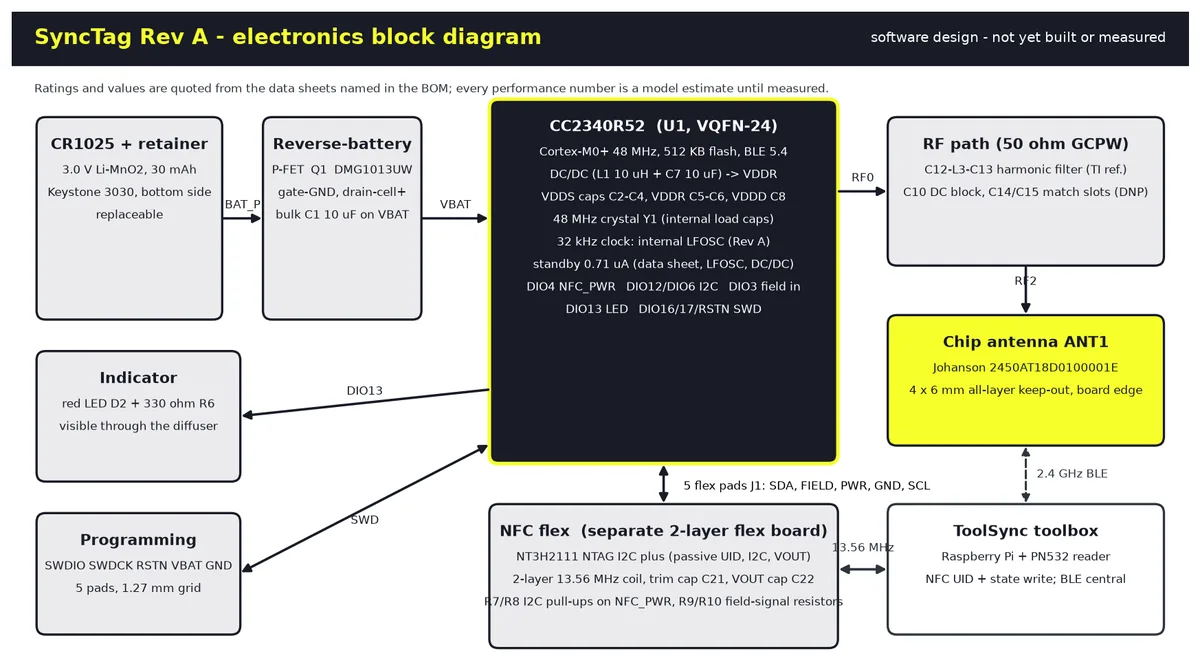
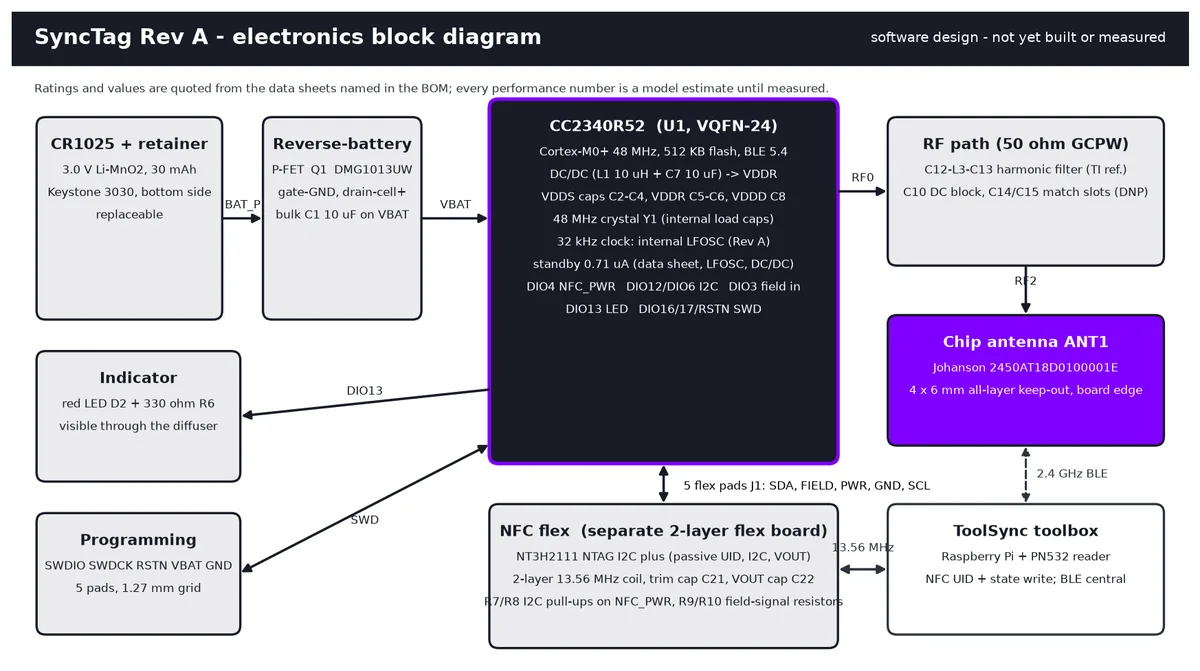
Make SyncTag part of the ToolSync page and use the site accent
Merge the SyncTag write-up into the ToolSync page as its main section and
trim the toolbox electrics. Drop the checks table and to-do lists. Leave a
redirect at the old SyncTag page URL. Regenerate the block diagram, assembly
drawing and battery chart in the site's accent colour instead of the Celestia
palette, and remove the separate SyncTag row from the Projects list.

Changed region(s): [[0.4008, 0.1192, 0.7092, 0.7154], [0.74, 0.4471, 0.9867, 0.6855], [0.0308, 0.0298, 0.4625, 0.0894]]

diff --git a/ProjectPages/rfidtoolstorage/synctag-pcb.html b/ProjectPages/rfidtoolstorage/synctag-pcb.html
@@ -1,0 +1,21 @@
+---
+layout: none
+permalink: /ProjectPages/rfidtoolstorage/synctag-pcb/
+sitemap: false
+search: false
+---
+<!doctype html>
+<html lang="en-GB">
+<head>
+<meta charset="utf-8">
+<meta name="viewport" content="width=device-width, initial-scale=1">
+<meta name="robots" content="noindex">
+<title>Moved to ToolSync</title>
+<link rel="canonical" href="{{ '/ProjectPages/rfidtoolstorage/#the-synctag' | absolute_url }}">
+<meta http-equiv="refresh" content="0; url={{ '/ProjectPages/rfidtoolstorage/#the-synctag' | relative_url }}">
+</head>
+<body>
+<h1>Moved to ToolSync</h1>
+<p>The SyncTag write-up is now part of the <a href="{{ '/ProjectPages/rfidtoolstorage/#the-synctag' | relative_url }}">ToolSync page</a>.</p>
+</body>
+</html>

diff --git a/ProjectPages/rfidtoolstorage/rfidtoolstorageoverview.md b/ProjectPages/rfidtoolstorage/rfidtoolstorageoverview.md
@@ -2,56 +2,93 @@
 title: ToolSync, a Digital Tracking Toolbox
 crumb: ToolSync
 permalink: /ProjectPages/rfidtoolstorage/
-reviewed: 2026-10-14
+reviewed: 2026-10-16
+image: /Images/optimised/synctag-pcb-render-1200.webp
 description: >
-  My fourth-year BEng project: a tool chest that tracks its contents with RFID and a
-  Raspberry Pi touchscreen, with BLE and NFC tags that flash to find a missing tool,
-  built as a working scaled prototype with a KiCad design for the tag.
+  My fourth-year BEng project: a tool chest that tracks its contents with RFID, and
+  SyncTags, small BLE and NFC tags that flash to find a missing tool. A scaled prototype
+  was built, and the tag's electronics are designed in KiCad.
 ---
 
 The idea for my fourth-year BEng project came from a problem I run into constantly: managing tools. At work, at a van conversion company, and in my own workshop, I've seen how much time goes on hunting for tools in cluttered or poorly organised storage.
 
-ToolSync is my answer: a toolbox that tracks what's in it. It pairs a heavy-duty tool chest with a Raspberry Pi touchscreen. A passive HF RFID reader handles check-in and check-out, and small BLE tags (SyncTags) on the tools are designed to flash when one goes missing, so the box doesn't just tell you something has gone, it helps you find it.
+ToolSync is my answer: a toolbox that tracks what's in it. A heavy-duty tool chest with a Raspberry Pi touchscreen and a passive HF RFID reader handles check-in and check-out. Small tags on the tools, the SyncTags, carry the tool's identity and flash when the toolbox asks for that tool, so the box doesn't just tell you something has gone, it helps you find it. I built a working scaled prototype of the toolbox, and I designed the SyncTag's electronics in KiCad 9 (it is not built yet, see [the SyncTag](#the-synctag)).
 
 ## Research and concept
 
 I started with a survey, interviews and shadowing, and looked at how people actually store and lose tools. Concept generation and a controlled convergence matrix narrowed a wide set of ideas to the digital tracking toolbox, which a focus group and a product champion then reviewed.
 
-## Design development
-
-### The toolbox
+## The toolbox
 
 The full-size design is a welded box-section steel frame with laser-cut 3 mm aluminium drawers and side panels, heavy-duty drawer runners and castors, LED lighting and a work surface on top. A key lock latches every drawer at once through a cam and a connecting bar. The plastic parts are designed as injection-moulded ABS. I checked the drawer forces and the force to turn the lock by calculation, and the screen angle and handle heights against anthropometric data.
 
-### Electrical architecture
+The box runs from 230 V mains through a C13 inlet, with a converter feeding the Raspberry Pi, the touchscreen and an onboard battery, and a two-gang socket so tools can be powered from the box. Every 5 V peripheral ends in the same quick-release 4-pin connector, which keeps the wiring simple to service.
 
-The toolbox takes 230 V mains through a standard C13 inlet. The mains also feeds a two-gang socket, so tools can be powered from the box without an inverter. A 230 V to 5 V converter feeds the low-voltage subsystem and charges the onboard battery.
+A Raspberry Pi reads tags through a PN532 module over I²C and runs a touchscreen interface built with CustomTkinter. A sidebar moves between drawers, and each tool is a tile with a green dot for available or a red one for missing. Each tool's tag ID and in/out status are kept in a local JSON file keyed by drawer (`D1` to `D7`). Scanning a tagged tool flips its status and refreshes the screen, and a systemd service starts the program at boot, so the box behaves like an appliance rather than a computer.
 
-Serviceability drove the wiring. Every 5 V peripheral ends in a quick-release 4-pin connector, reusing one pin pattern throughout with the unused pins blanked, so there is less variation, fewer spares and faster maintenance. A small DC fan keeps the Raspberry Pi clear of the 85 °C limit Raspberry Pi gives for its processors.
+## The SyncTag
 
-#### Power budget
+The SyncTag is the small tag that sits on each tool. Its electronics are two boards drawn in KiCad 9: a 26.4 × 10.1 mm four-layer main board with a Bluetooth Low Energy (BLE) chip, antenna and coin cell, and a separate NFC antenna flex. KiCad's own electrical and design rule checks report no errors on either board. **Nothing has been built, powered or measured, and no tag firmware exists yet**, so every performance figure in this section is a data-sheet number or a model, and I say which.
 
-Peak draw across the Pi, display, LEDs, transmitter module and USB comes to roughly 33 W, and typical use is around 11 W. Taking the 12,800 mAh pack as a 12 V battery, that is 153.6 Wh, which gives about 4.6 hours at peak and about 14 hours at 11 W away from mains. These are calculated from the pack's rating, so a real runtime will be lower.
+{% include figure.html src="/Images/synctag-pcb-render.png" alt="Angled 3D render of a long thin green circuit board with a black square chip in the middle, small capacitors, five pads along the left edge, a red LED and a cream chip antenna at the right-hand end" caption="The SyncTag main board, rendered from the KiCad design. The part bodies are placeholder shapes, not manufacturer models." eager=true %}
 
-#### Protection
+### What the tag has to do
 
-A 7.5 A fuse matched to the 16 AWG wiring sits directly after the battery, a battery isolator prevents drain in storage, the steel frame is chassis-grounded, and I²C noise is managed through secure terminations and stable harness routing.
+- **Be read with no battery.** The toolbox's RFID reader checks tools in and out, so the tool's identity has to be readable even when the tag's cell is flat.
+- **Be found.** When a tool is missing, the toolbox sends a Bluetooth command and the tag flashes.
+- **Run from a replaceable coin cell** for as long as it can, since nobody will want to open a tool tag often.
+- **Stay small enough to stick on a tool.** The cell sets the size: a CR1025 is 10.0 mm across, so the board is 10.1 mm wide and the tag comes to about 28.0 × 11.5 × 7.3 mm outside.
 
-### Software and interface
+### The design
 
-A Raspberry Pi handles RFID scanning through a PN532 module over I²C, stores data locally in JSON, and runs a touchscreen GUI built with CustomTkinter. I²C was chosen for its low wiring complexity and the GPIO headroom it leaves.
+| Block | Choice | Why |
+| --- | --- | --- |
+| Identity | NXP NT3H2111 (NTAG I²C plus) on its own two-layer flex with a 13.56 MHz coil and a ferrite sheet | powered by the reader's field, so the toolbox can always read it; its output pin and I²C port let the main chip learn it was scanned |
+| Bluetooth chip | TI CC2340R52 (Cortex-M0+, BLE 5.4, about 0.7 µA standby, built-in DC/DC) | low standby current, and a documented reference design for the antenna filter and crystal |
+| Antenna | Johanson 2450AT18D0100001E chip antenna at the board edge, TI's reference harmonic filter and two unfitted tuning slots | small enough for the board, with a manufacturer-recommended layout |
+| Alert | one red LED behind the diffuser | a coin cell cannot supply the roughly 15 mA of a magnetic buzzer, and a piezo needs about 2 mm more height |
+| Cell | CR1025 (30 mAh) in a Keystone 3030 retainer on the underside, with a P-FET against a reversed cell | replaceable and as small as a coin cell gets |
+| Clocks | 48 MHz crystal; 32 kHz from the chip's internal oscillator | a 32 kHz crystal did not fit |
+| Programming | five SWD and test pads | to program and debug the first boards |
 
-The interface is built around how someone uses a toolbox. A sidebar moves between drawers, and the main panel shows tool tiles ("10 mm Spanner" and so on), each with a status dot: green for available, red for missing. Further panels handle adding and editing tools and the account and system settings.
+The nominal height of the stack is 6.86 mm and the worst case 7.23 mm, against a 7.0 mm target, so a prototype enclosure has to confirm it.
 
-Each user has a local JSON file keyed by drawer (`D1` to `D7`), storing each tool's tag `uid` and a simple in/out `status`. A background thread polls the RFID reader continuously. When a tagged tool is scanned it inverts that tool's status and refreshes the UI, so the overview stays live as items come and go. The PN532 returns raw hex bytes, and real tags turned out to be inconsistent in format, so a custom hex-to-decimal UID parser normalises tags and edge cases before lookup. A systemd service (`tool_sync.service`) starts the UI at boot, so it behaves like an appliance rather than a computer.
+{% include figure.html src="/Images/synctag-block-diagram.png" alt="Block diagram: cell and reverse-battery protection feed the CC2340R52 chip in the centre, which connects to the RF filter and chip antenna, an indicator LED, programming pads and the NFC flex, which talks to the ToolSync toolbox" caption="Block diagram of the SyncTag." fulllink=true %}
 
-### SyncTag, the tool-mounted PCB
+#### Why NFC identity is a separate passive part
 
-The SyncTag is a miniature PCB that lives on each tool, drawn in KiCad 9. A TI CC2340R52 Bluetooth chip with a chip antenna sits on a four-layer main board, and a separate NFC flex carries an NXP NT3H2111, so the toolbox's reader can identify the tool with no battery in the tag. The alert is a red LED that flashes when the toolbox asks for the tool, and the power is a replaceable CR1025 coin cell (about 30 mAh) with reverse-battery protection. There is no buzzer in this revision, because a coin cell cannot supply one. The cell sets the size, so the tag comes to about 28.0 × 11.5 × 7.3 mm outside.
+If the Bluetooth chip pretended to be the NFC tag itself, the tool's identity would vanish whenever the cell went flat, and the toolbox would stop seeing it. The NT3H2111 is powered by the reader's field, so the toolbox's PN532 can always read the tool's ID with no battery. Its output pin and I²C port still let the main chip learn that it was scanned and read or write a short record, such as whether the tool is in or out.
 
-The modelled battery life is about 1.7 to 2.1 years for a typical workshop pattern, because the tag only advertises slowly while the tool is in the box. KiCad's electrical and design rule checks report no errors on either board, but nothing has been built or measured and there is no tag firmware, so the battery life, range and antenna performance are all estimates.
+{% include figure.html src="/Images/synctag-schematic.png" alt="KiCad schematic sheet with seven boxed sections: power, supply decoupling, the CC2340R52 chip, a crystal, the RF filter and antenna, the NFC flex connector, an LED and the programming pads" caption="The main-board schematic, exported from KiCad." fulllink=true %}
 
-The full write-up, with the schematic, antenna design, power model and what is still unverified, is on its own page: [SyncTag, the tool tag's circuit board](/ProjectPages/rfidtoolstorage/synctag-pcb/).
+### Power and battery life
+
+The modelled life depends mostly on how the tag advertises. A tag that advertises every 5 s so it can be found lasts about 0.84 years in a typical workshop pattern. If it only sends a slow beacon while the tool is in the box, which the NFC check-in tells it, and advertises quickly only while the tool is out, the same pattern gives about 1.9 years. The floor with no radio use at all is about 2.8 years at 10 °C.
+
+| Usage pattern | Modelled life (state-aware schedule) |
+| --- | --- |
+| Typical workshop (tool checked out 5 % of the time) | about 1.7 to 2.1 years |
+| Cold garage, heavy find use | about 0.5 to 0.7 years |
+
+{% include figure.html src="/Images/synctag-battery-life.png" alt="Two charts: bars of estimated cell life for four usage patterns with a state-aware schedule roughly doubling life, and a line of life against advertising interval rising from about 0.1 to 2.2 years" caption="Left: life by usage pattern, fixed adverts against the state-aware schedule. Right: life against a fixed advertising interval for the typical pattern. Model output." fulllink=true %}
+
+This is a model. The advertising current, the usable fraction of the cell and the temperature factors are my assumptions, and the range only varies the advertising charge. The bigger unknown is the cell itself: Panasonic does not publish the CR1025's internal resistance, and below about 136 Ω the supply would sag under the chip's 1.71 V minimum during a transmit burst with the LED on. That could end the tag's life earlier than the table says, so it needs measuring at 0 °C and 20 °C.
+
+### Antennas
+
+**Bluetooth (2.4 GHz).** The chip antenna sits at the east end of the board with a 4 × 6 mm area on every layer kept free of copper, as the manufacturer requires. The feed is a 0.20 mm grounded coplanar line over a solid ground plane, with no vias, through TI's reference filter and a DC block. For an assumed 0.10 mm dielectric a quasi-static calculation gives 48.5 to 50.1 Ω, depending on the material. It is sensitive: 0.01 mm of dielectric height moves it about 2.5 Ω, and I have not yet confirmed the fabricator's stack-up. Two tuning capacitor slots are left empty because the manufacturer says the matching values depend on the board. The 72 % efficiency in Johanson's data sheet is for their own 40 × 20 mm test board, **not for this tag**. A small ground area, a cell close to the antenna and a metal tool are all known to detune a chip antenna, so I expect this one to do worse. I have not measured it.
+
+**NFC (13.56 MHz).** The coil is on the flex: two layers of six turns, 0.15 mm track and gap, 9.5 × 8.5 mm outside, with a ferrite sheet behind it to shield the coil from the metal underneath. A partial-inductance model gives about 1.7 µH, with an uncertainty of about 10 %. With the NT3H2111's input capacitance that resonates near 16.6 MHz in free air, so a trim capacitor slot lets me pull it down toward 13.56 MHz on the real assembly. I do not claim a read distance. A coil this small against a ferrite and a metal tool will probably have a short range, and only a reader can say how short.
+
+{% include figure.html src="/Images/synctag-flex-render.png" alt="Angled 3D render of a green flex circuit with a small chip and capacitors at the left, a five-finger tail and a square spiral coil on the right" caption="The NFC flex: the spiral coil on the right, the NT3H2111 and its parts on the left, and the five fingers at the far left that solder to the main board. Render." class="fig-medium" %}
+
+### The layout
+
+The main board has four layers at 0.8 mm. The second layer is a solid ground plane that serves as the reference under the RF feed. Tracks and gaps are 0.10 mm, the vias are 0.20 mm drills, and the 0.20 mm RF line has its own rule set.
+
+I placed the parts that are fixed by the physics first: the antenna and its keep-out at the end, the RF chain in signal order along one edge, the crystal under the chip and the cell retainer on the underside. I wrote scripts to place and route the rest. Routing took several rounds. At first four connections would never route. Making the board bigger on its own did not fix it; what worked was keeping clear zones for the RF feed and the crystal, and then testing small placement changes with the real router in the loop until every connection was made. The board ended up at 26.4 mm long where the first attempt was 23.4 mm. KiCad's checker, not my router, is the judge of the result.
+
+{% include figure.html src="/Images/synctag-assembly.png" alt="Two flat drawings: the main board top side with labelled parts, five test pads, the hatched antenna keep-out and the antenna, and below it the NFC flex with its chip, passives and square coil outline" caption="Assembly drawing of both boards from the design files: reference designators, the three unfitted tuning slots (C14, C15 and C21) and the antenna keep-out." fulllink=true %}
 
 ## Prototyping
 
@@ -70,12 +107,8 @@ A costing for the full-size toolbox came to about £391 to manufacture, excludin
 
 ## Outcome
 
-The project met its aims apart from the full-scale prototype. The working prototype demonstrates check-in and check-out, the tag casing and the locking mechanism. The full-size toolbox exists as a design, and so does the tag's circuit board, which has passed software design checks but has not been built.
+The project met its aims apart from the full-scale prototype. The working prototype demonstrates check-in and check-out, the tag casing and the locking mechanism. The full-size toolbox exists as a design, and so does the SyncTag's circuit board, which has passed software design checks but has not been built.
 
 ## Further development
 
-The next steps are refining the manufacturing processes, building and testing the Bluetooth tag so it can flash (and revisiting a buzzer), building a full-scale model, and trying a larger display.
-
-## References
-
-- Raspberry Pi, [thermal limits and throttling](https://www.raspberrypi.com/documentation/computers/raspberry-pi.html), accessed 14 October 2026.
+The next steps are building and testing the SyncTag so it can flash on command (and revisiting a buzzer), building a full-scale model, refining the manufacturing processes, and trying a larger display.
